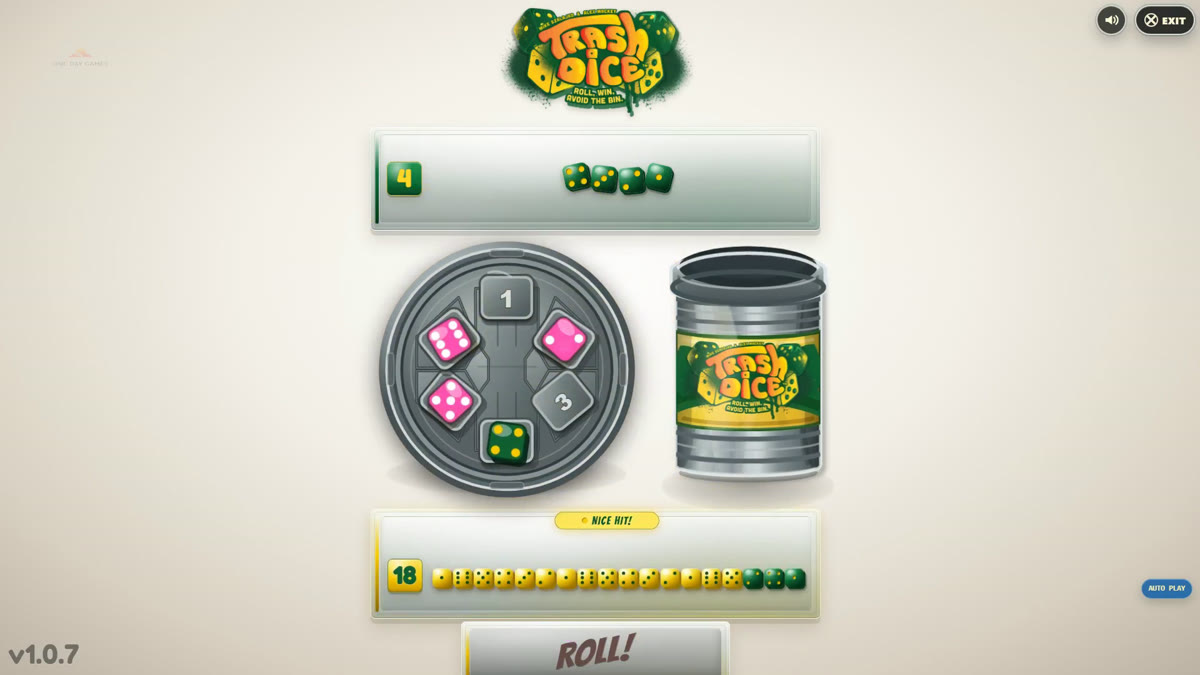
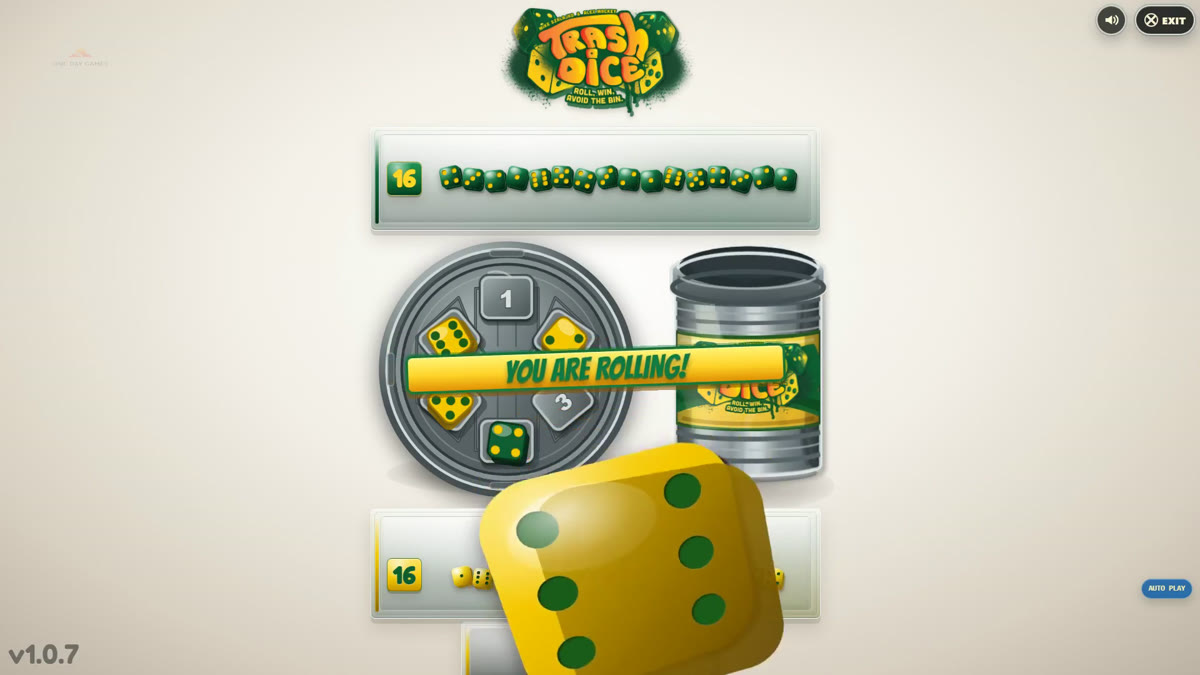
Swap featured-work shots for action moments
WUYB: TIME'S UP monster-attack composite. Trash Dice: mid-roll
frame with YOU ARE ROLLING banner. Cache-bust refs to v=2.

Changed region(s): [[0.3083, 0.4667, 0.6783, 1.0], [0.3083, 0.2178, 0.6783, 0.3111]]

diff --git a/play/index.html b/play/index.html
@@ -783,7 +783,7 @@
           <article class="work-card">
             <figure class="game-shot" aria-label="What's Under Your Bed? companion screenshot">
               <a class="image-link" href="/wuyb/play/" aria-label="Play the What's Under Your Bed? companion">
-                <img src="/assets/games/wuyb/wuyb-screenshot.jpg" alt="What's Under Your Bed? digital companion gameplay: matching monster cards against the clock">
+                <img src="/assets/games/wuyb/wuyb-screenshot.jpg?v=2" alt="What's Under Your Bed? digital companion: TIME'S UP — the sneaker monster attacks">
               </a>
             </figure>
             <p class="work-flag">Lethal Chicken Games</p>
@@ -796,7 +796,7 @@
           <article class="work-card">
             <figure class="game-shot" aria-label="Trash Dice companion screenshot">
               <a class="image-link" href="/trash-dice/play/" aria-label="Play the Trash Dice companion">
-                <img src="/assets/games/trash-dice/td-screenshot.jpg" alt="Trash Dice digital companion gameplay: dice tray, branded trash can, and an unlocked pink dice skin">
+                <img src="/assets/games/trash-dice/td-screenshot.jpg?v=2" alt="Trash Dice digital companion gameplay: a giant die tumbling mid-roll over the dice tray and branded trash can">
               </a>
             </figure>
             <p class="work-flag">Big Discoveries</p>

diff --git a/play/studio/index.html b/play/studio/index.html
@@ -384,7 +384,7 @@
           <a class="game-link" href="https://playonedaygames.com/trash-dice/play/">Play a live build →</a>
         </div>
         <div class="game-visual">
-          <img src="assets/td-screenshot.jpg" alt="Trash Dice digital companion gameplay: dice tray, branded trash can, and an unlocked pink dice skin" decoding="async" width="1200" height="675">
+          <img src="assets/td-screenshot.jpg?v=2" alt="Trash Dice digital companion gameplay: a giant die tumbling mid-roll over the dice tray and branded trash can" decoding="async" width="1200" height="675">
           <span class="visual-scrim" aria-hidden="true"></span>
           <span class="visual-label">Digital companion · Big Discoveries</span>
         </div>
